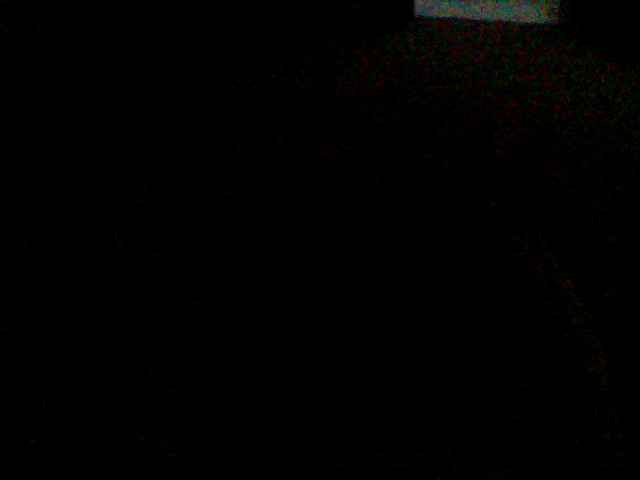
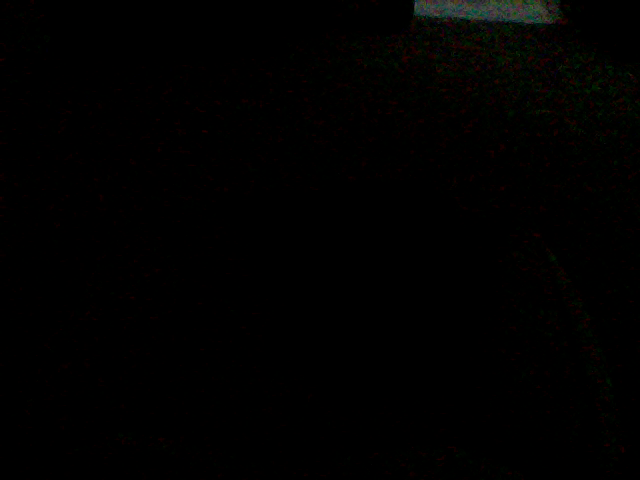
update at Month05Day08Time19:42

Changed region(s): [[0.625, 0.0, 0.875, 0.125], [0.7812, 0.0938, 0.875, 0.1875], [0.875, 0.1562, 0.9062, 0.1875]]

diff --git a/index.html b/index.html
@@ -39,7 +39,7 @@
       <!-- Example row of columns -->
       <div class="row">
         <div class="col-md-4">
-	<p>This picture was updated at Month05Day08Time19:41</p>
+	<p>This picture was updated at Month05Day08Time19:42</p>
 		<img src="8_pic.png" />
         </div>
       </div>
